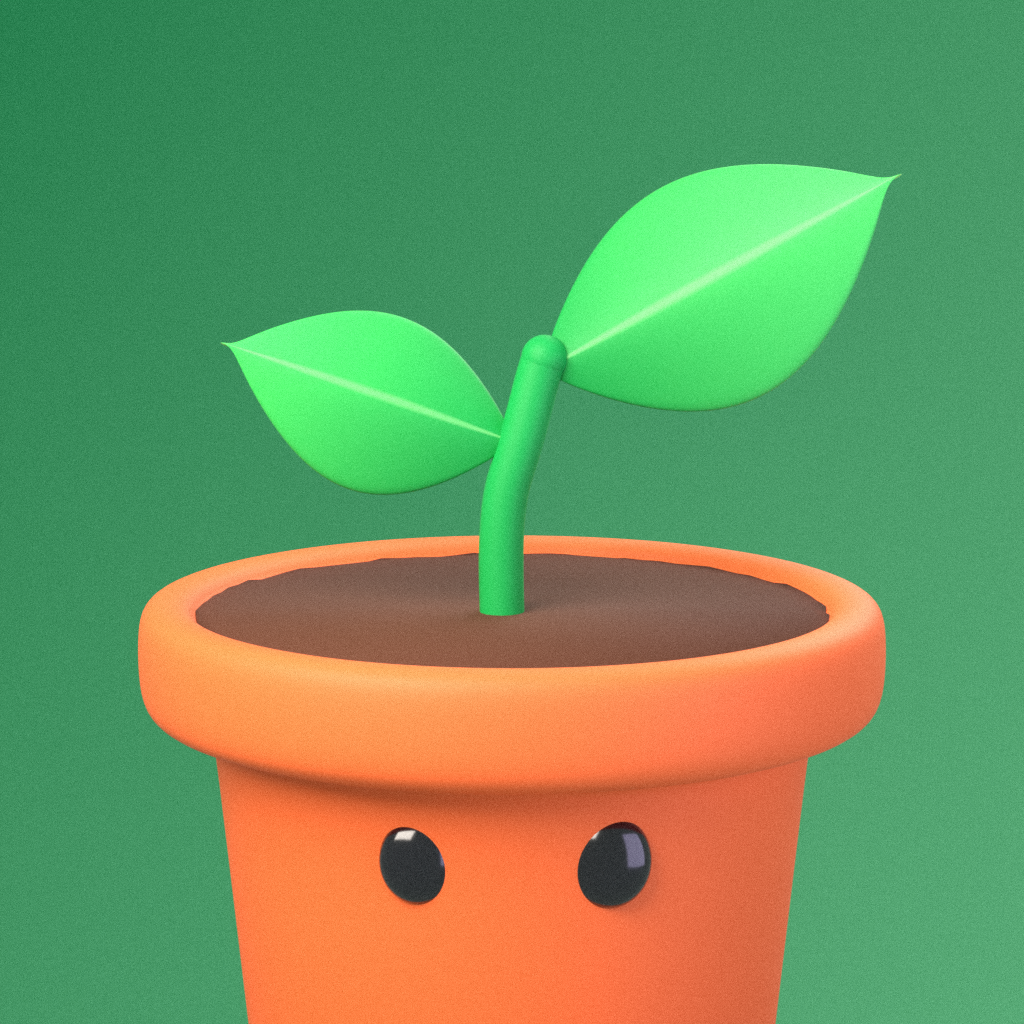
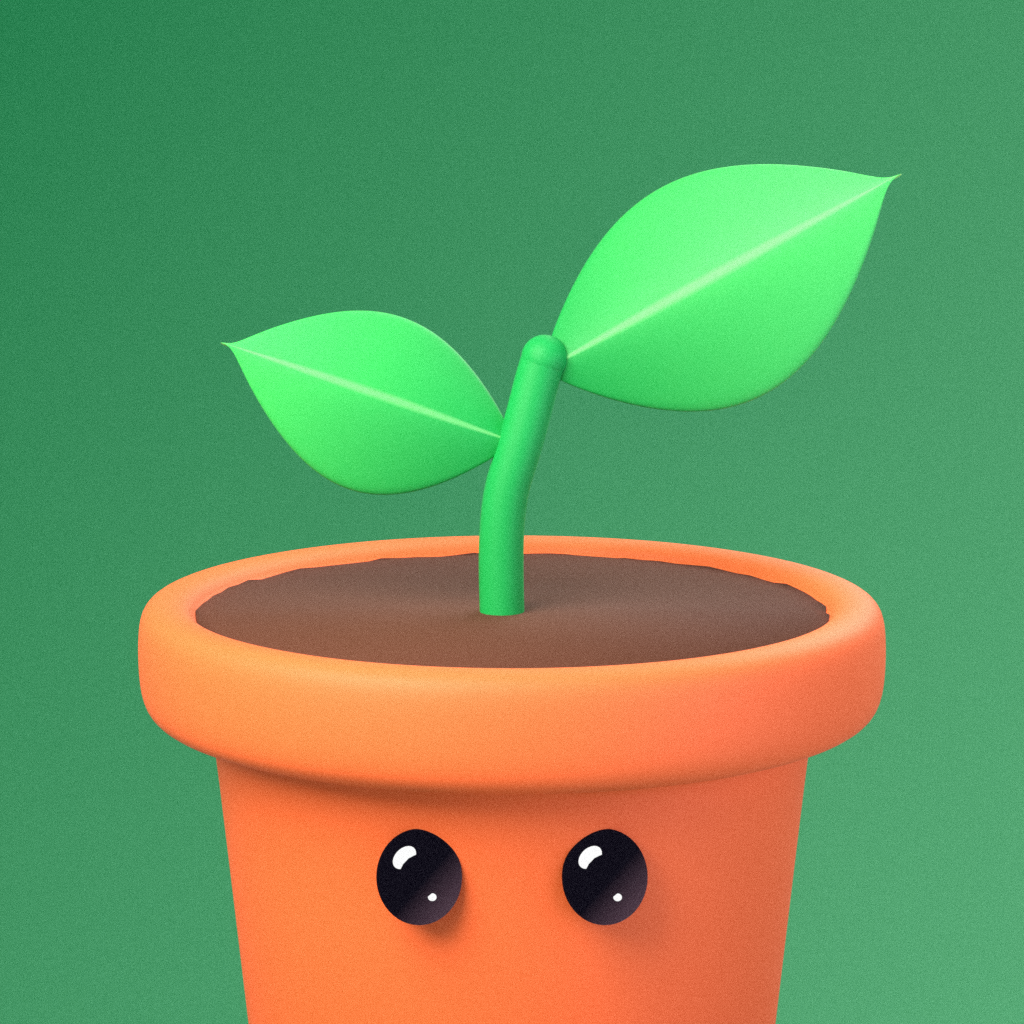
Rend les deux yeux strictement identiques, position milieu
Chaque œil est un seul maillage, bille et reflets, tourné face à la
caméra et décollé de la paroi pour que le pot ne le rogne pas ; son noir
ne dépend pas des lampes. Les deux yeux ont ainsi la même silhouette et
les mêmes reflets. yeux-zoom.png les montre côte à côte, agrandis.

Claude-Session: https://claude.ai/code/session_01PDVjaF1d2UBx4x9v8SHUv3

Changed region(s): [[0.5312, 0.7812, 0.6562, 0.9375], [0.3438, 0.7812, 0.4688, 0.9375]]

diff --git a/icones-proposees/pot-3d.py b/icones-proposees/pot-3d.py
@@ -61,26 +61,42 @@ dm=soil.modifiers.new('d','DISPLACE');tx=bpy.data.textures.new('n','CLOUDS');tx.
 bpy.ops.object.shade_smooth()
 
 if YEUX:
-    # Deux yeux identiques et symétriques. Leurs reflets ne viennent pas des
-    # lampes : ce sont des pastilles blanches posées au même endroit sur
-    # chaque œil, vues de la seule caméra. Les deux ont donc exactement le
-    # même éclat.
-    EZ=float(os.environ.get('YEUX_Z','0.33')); EX=float(os.environ.get('YEUX_X','0.27')); ER=float(os.environ.get('YEUX_R','0.125'))
-    eyem=mat('oeil','#14121C',rough=.45,coat=0);eyem.node_tree.nodes['Principled BSDF'].inputs['Specular IOR Level'].default_value=.15
-    em=bpy.data.materials.new('eclat');em.use_nodes=True;en=em.node_tree.nodes
-    en.remove(en['Principled BSDF']);es=en.new('ShaderNodeEmission');es.inputs[1].default_value=1.0
-    em.node_tree.links.new(es.outputs[0],en['Material Output'].inputs[0])
-    # rayon du pot à cette hauteur : le rebord au-dessus de 0,63, la paroi en dessous
+    # Deux yeux strictement identiques. Chaque œil est un seul maillage (la
+    # bille et ses deux reflets) tourné face à la caméra : vus chacun dans
+    # leur axe, ils ont la même silhouette et les reflets au même endroit.
+    # Le noir ne réagit pas aux lampes (émission seule, modelé par les
+    # coordonnées locales de l'objet), donc la lumière ne les distingue pas.
+    EZ=float(os.environ.get('YEUX_Z','0.30')); EX=float(os.environ.get('YEUX_X','0.27')); ER=float(os.environ.get('YEUX_R','0.125'))
+    CAM=Vector((0,-11.5,3.2))
+    eyem=bpy.data.materials.new('oeil');eyem.use_nodes=True;nt=eyem.node_tree;N=nt.nodes;L=nt.links
+    N.remove(N['Principled BSDF']);em_=N.new('ShaderNodeEmission');L.new(em_.outputs[0],N['Material Output'].inputs[0])
+    tc=N.new('ShaderNodeTexCoord');se=N.new('ShaderNodeSeparateXYZ');L.new(tc.outputs['Object'],se.inputs[0])
+    # un peu plus clair vers le bas à droite, comme une bille qui renvoie le pot
+    ad=N.new('ShaderNodeMath');ad.operation='SUBTRACT';L.new(se.outputs['X'],ad.inputs[0]);L.new(se.outputs['Z'],ad.inputs[1])
+    mr=N.new('ShaderNodeMapRange');mr.inputs[1].default_value=.2;mr.inputs[2].default_value=1.3;L.new(ad.outputs[0],mr.inputs[0])
+    ramp=N.new('ShaderNodeValToRGB');ramp.color_ramp.elements[0].color=hexc('#121019');ramp.color_ramp.elements[1].color=hexc('#4A3A44')
+    L.new(mr.outputs[0],ramp.inputs[0]);L.new(ramp.outputs[0],em_.inputs[0])
+    clm=bpy.data.materials.new('eclat');clm.use_nodes=True;n2=clm.node_tree.nodes;n2.remove(n2['Principled BSDF'])
+    ce=n2.new('ShaderNodeEmission');ce.inputs[1].default_value=1.0;clm.node_tree.links.new(ce.outputs[0],n2['Material Output'].inputs[0])
     rz=1.165 if EZ>0.63 else 0.72+0.21*(EZ+1.55)/2.05
     for x in (-EX,EX):
-        ys=-math.sqrt(rz*rz-x*x)+0.021
-        bpy.ops.mesh.primitive_uv_sphere_add(segments=48,ring_count=24,radius=ER,location=(x,ys,EZ))
-        e=bpy.context.object;e.scale=(1,.55,1.12);e.data.materials.append(eyem);bpy.ops.object.shade_smooth()
+        me=bpy.data.meshes.new('oeil');bm=bmesh.new()
+        bmesh.ops.create_uvsphere(bm,u_segments=48,v_segments=24,radius=1)
+        for f in bm.faces: f.material_index=0; f.smooth=True
         for dx,dz,sx,sz,rot in ((-0.34,0.40,0.30,0.20,-35),(0.30,-0.42,0.10,0.08,0)):
-            bpy.ops.mesh.primitive_uv_sphere_add(segments=24,ring_count=12,radius=1,location=(x+dx*ER,ys-0.62*ER,EZ+dz*ER))
-            c=bpy.context.object;c.scale=(sx*ER,0.004,sz*ER);c.rotation_euler=(0,math.radians(rot),0)
-            c.data.materials.append(em);bpy.ops.object.shade_smooth()
-            c.visible_shadow=c.visible_diffuse=c.visible_glossy=c.visible_transmission=c.visible_volume_scatter=False
+            r=bmesh.ops.create_uvsphere(bm,u_segments=24,v_segments=12,radius=1)
+            vs=r['verts'];dy=-math.sqrt(max(0,1-dx*dx-dz*dz))-0.03
+            c,sn=math.cos(math.radians(rot)),math.sin(math.radians(rot))
+            for v in vs:
+                X,Y,Z=v.co.x*sx,v.co.y*0.01,v.co.z*sz
+                v.co=(X*c+Z*sn+dx,Y+dy,-X*sn+Z*c+dz)
+            for f in {f for v in vs for f in v.link_faces}: f.material_index=1; f.smooth=True
+        bm.to_mesh(me);bm.free()
+        # le plan médian de la bille passe devant la paroi : le pot ne la rogne pas
+        ys=-math.sqrt(rz*rz-x*x)-0.045
+        e=obj('oeil',me);e.data.materials.append(eyem);e.data.materials.append(clm)
+        e.location=(x,ys,EZ);e.scale=(ER,.42*ER,1.12*ER)
+        e.rotation_euler=(CAM-e.location).to_track_quat('-Y','Z').to_euler()
 green=mat('tige','#1FB05A',rough=.6,coat=0,sss=.1)
 # ---- tige
 cu=bpy.data.curves.new('tige','CURVE');cu.dimensions='3D';cu.bevel_depth=.07;cu.bevel_resolution=6;cu.use_fill_caps=True
